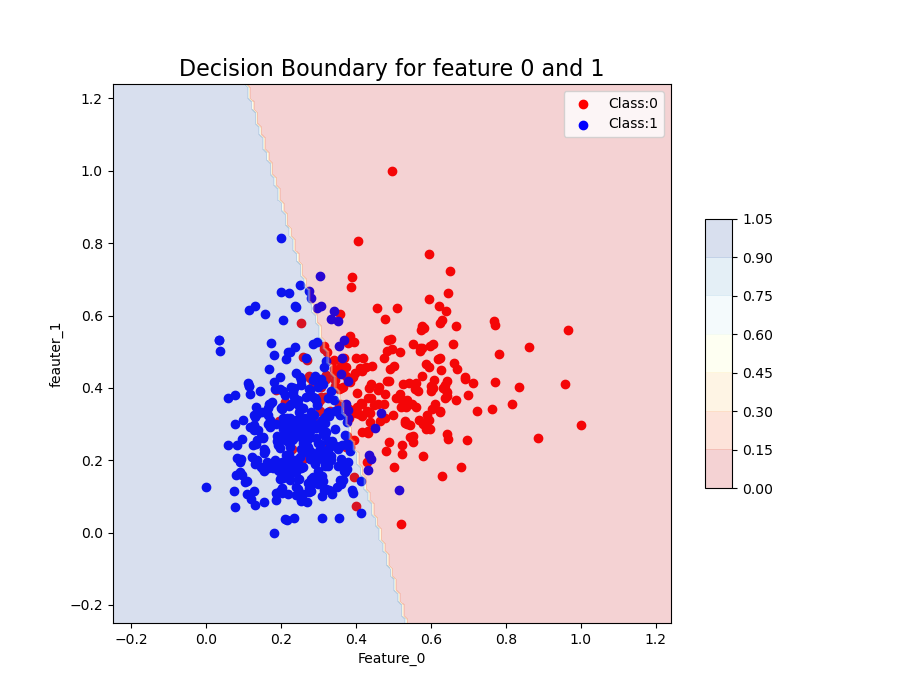
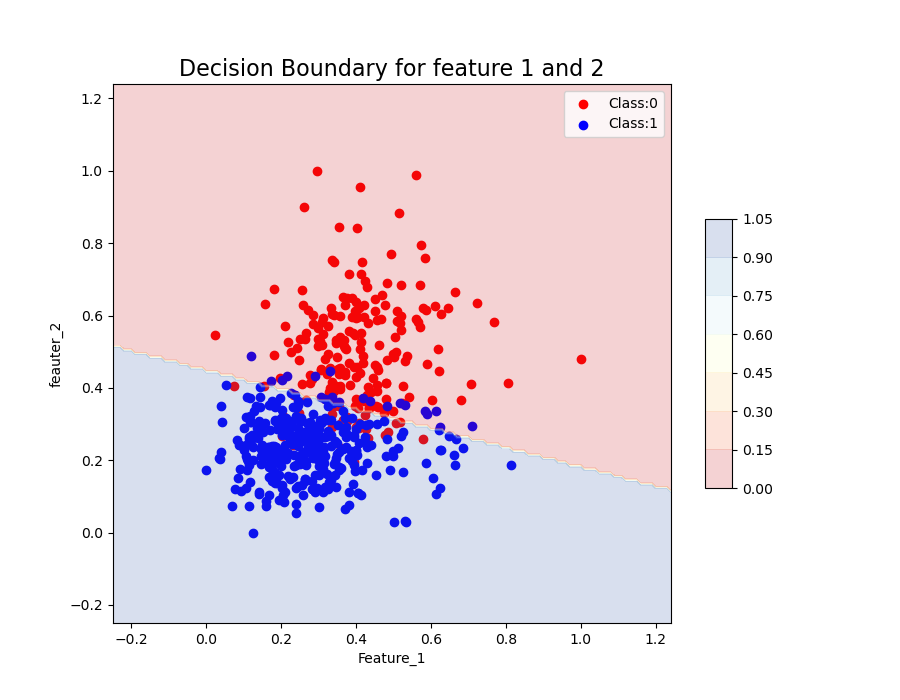
minor fixes

diff --git a/question1.py b/question1.py
@@ -53,14 +53,14 @@ def plot_db(X, y, f1, f2):
 
     color = ["r", "b", "g"]
     for i in np.unique(y):
-        ax.scatter(X[y == i, f1], X[y == i, f2],
+        ax.scatter(X[y == i, 0], X[y == i, 1],
                    c=color[i], label=f"Class:{i}")
     ax.set_ylabel("y")
     ax.set_xlabel("X")
     ax.legend()
 
-    x1_min, x1_max = np.min(X[:, f1]) - 0.25, np.max(X[:, f1]) + 0.25
-    x2_min, x2_max = np.min(X[:, f2]) - 0.25, np.max(X[:, f2]) + 0.25
+    x1_min, x1_max = np.min(X[:, 0]) - 0.25, np.max(X[:, 0]) + 0.25
+    x2_min, x2_max = np.min(X[:, 1]) - 0.25, np.max(X[:, 1]) + 0.25
     d = 0.01
     xx1, xx2 = np.meshgrid(np.arange(x1_min, x1_max, d),
                            np.arange(x2_min, x2_max, d))
@@ -90,4 +90,4 @@ print(confusion_matrix(y, y_hat))
 print("Accuracy: ", accuracy(y_hat, y))
 
 # Plotting decision boundaryhaa
-fig = plot_db(X, y, 0, 1)
+fig = plot_db(X, y, 1, 2)

diff --git a/Binnary_LR.py b/Binnary_LR.py
@@ -95,9 +95,6 @@ class LR():
 
 
 if __name__ == '__main__':
-    # Random Dataset
-    N = 30
-    P = 5
     N_ITER = 1e5
     data = pd.read_csv("./Breast_Cancer_Dataset.csv")
     X = normalize(data.iloc[:, :-1].values)
@@ -105,7 +102,7 @@ if __name__ == '__main__':
 
     # Defining the Classfier
     lr = LR(P)
-    lr.fit(X, y, iterations=N_ITER, log_interval=int(N_ITER//5), lr=0.01)
+    lr.fit(X, y, iterations=N_ITER, log_interval=int(N_ITER//5), lr=0.03)
 
     y_hat = lr.predict(X)
 
